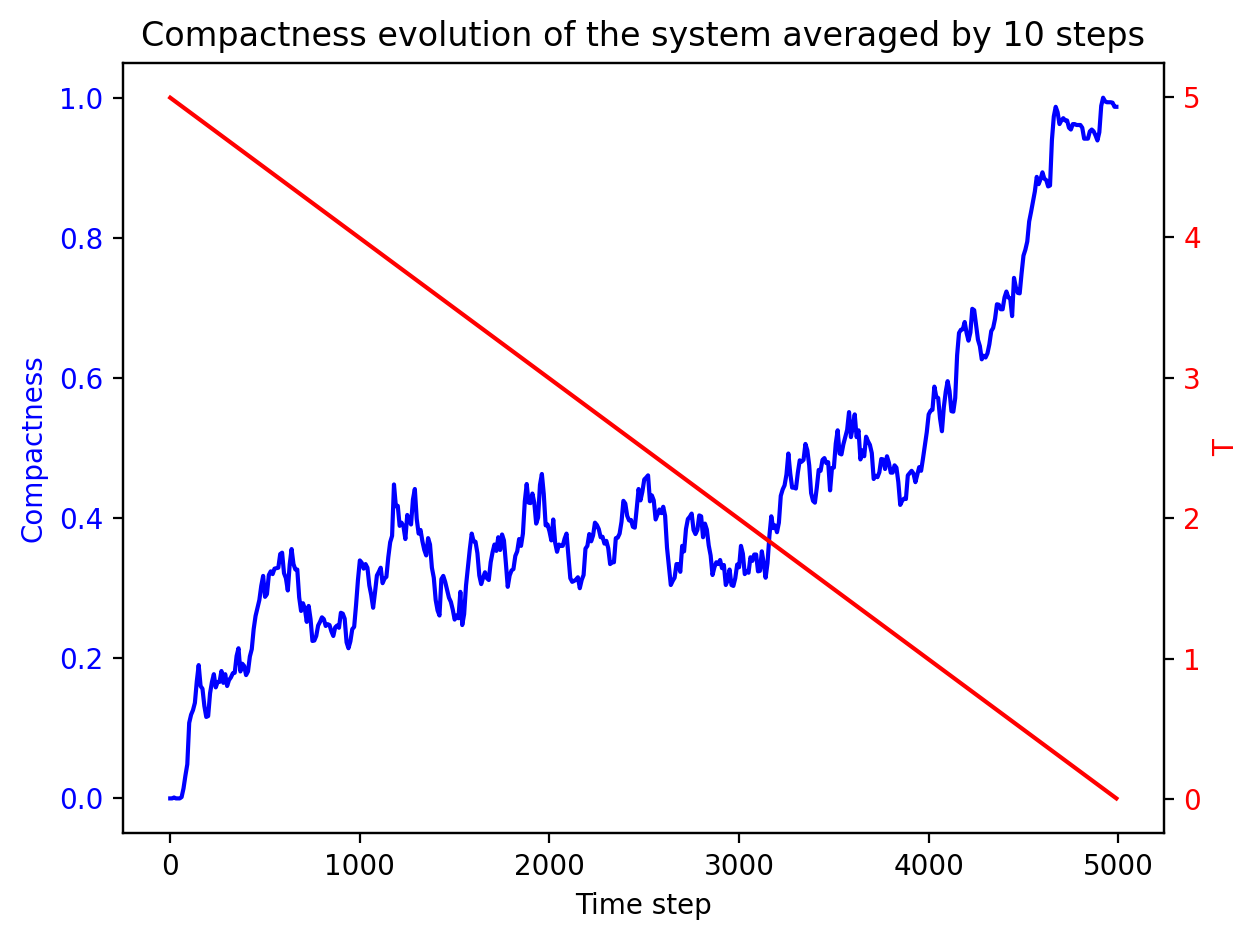
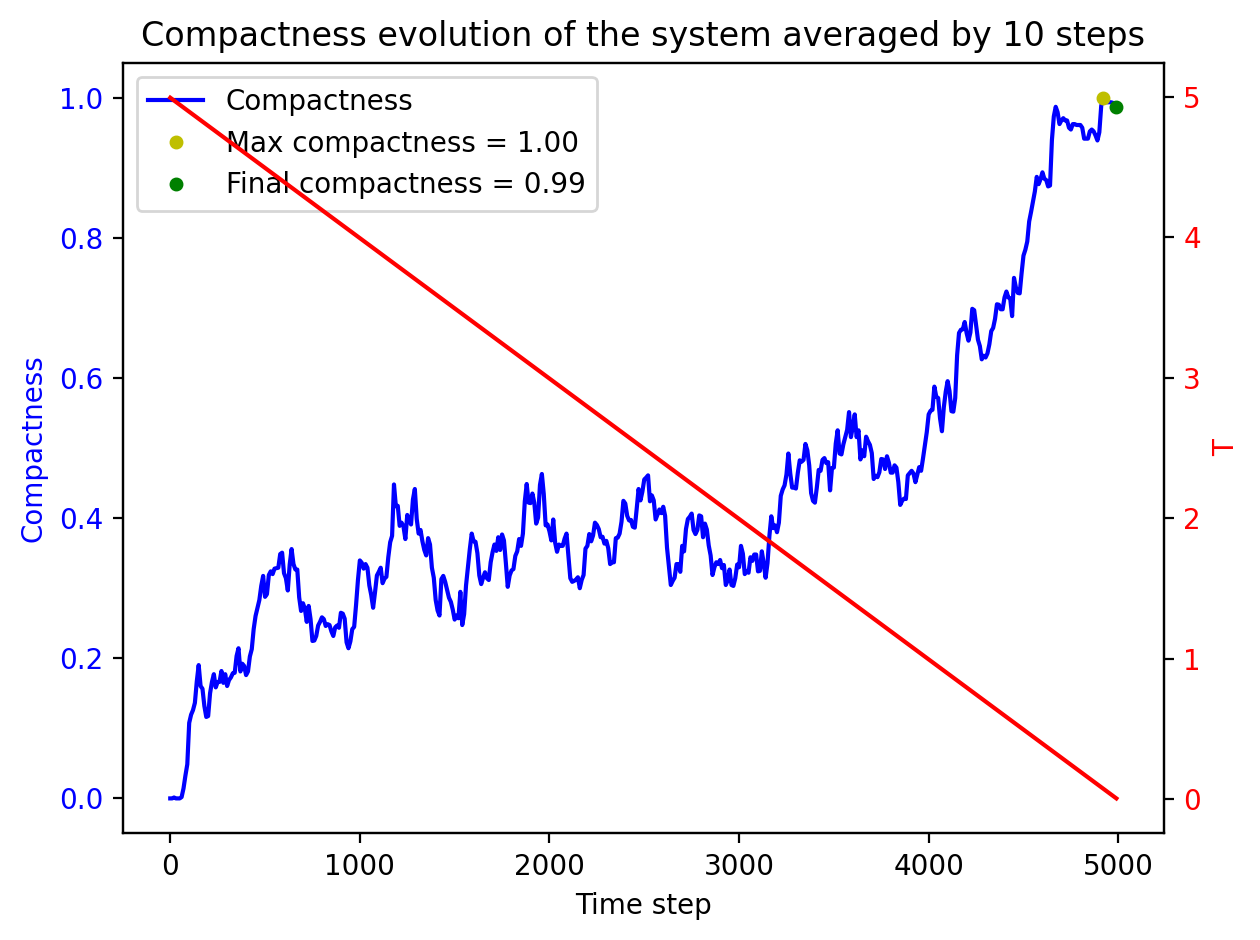
Updated plots

Changed region(s): [[0.0929, 0.0617, 0.4643, 0.2468], [0.8667, 0.0926, 0.8976, 0.1234]]

diff --git a/src/plots.py b/src/plots.py
@@ -75,7 +75,7 @@ def view_min_energy(protein, save=True, filename="min_energy.png"):
 
 def view_max_compactness(protein, save=True, filename="max_compactness.png"):
     '''
-    Function to plot the protein structure founded whit the max compactness.
+    Function to plot the protein structure founded with the max compactness.
     As first argument the protein class instance of the desired protein is needed.
     The plot can be saved with save = True as pdf
 
@@ -106,35 +106,46 @@ def view_max_compactness(protein, save=True, filename="max_compactness.png"):
 
 
 def plot_energy(protein, avg: int = 10, save=True, filename="energy_evolution.png", annealing=True) -> None:
-    '''
-    Plot the energy evolution of the system.
-    If annealing is False, temperature curve is not shown.
-    '''
     en_evo = np.array(protein.energy_evolution[1:].copy())
     x = np.arange(0, len(en_evo), avg)
 
     fig, ax = plt.subplots()
     try:
-        en_evo = en_evo.reshape(-1, avg).mean(axis=1)
+        en_evo_avg = en_evo.reshape(-1, avg).mean(axis=1)
     except:
         print(f'Mean procedure skipped for energy: {avg} steps')
+        en_evo_avg = en_evo
+        x = np.arange(len(en_evo_avg))
 
     ax.set_title(f'Energy evolution of the system averaged by {avg} steps')
     ax.set_xlabel('Time step')
     ax.set_ylabel('Energy', color='b')
     ax.tick_params(axis='y', labelcolor='b')
-    ax.plot(x, en_evo, color='b')
+    ax.plot(x, en_evo_avg, color='b', label='Energy')
+
+    # Marker: minimum energy → magenta
+    min_index = np.argmin(en_evo_avg)
+    min_energy = en_evo_avg[min_index]
+    ax.plot(x[min_index], min_energy, 'yo', markersize=4,
+            label=f'Min energy = {min_energy:.2f}')
+
+    # Marker: final energy → green
+    final_energy = en_evo_avg[-1]
+    ax.plot(x[-1], final_energy, 'go', markersize=4,
+            label=f'Final energy = {final_energy:.2f}')
+
+    ax.legend()
 
     if annealing:
         T = np.array(protein.temperature_evolution[1:])
         try:
-            T = T.reshape(-1, avg).mean(axis=1)
+            T_avg = T.reshape(-1, avg).mean(axis=1)
         except:
-            pass
+            T_avg = T
         ax_tw = ax.twinx()
         ax_tw.set_ylabel('T', color='r')
         ax_tw.tick_params(axis='y', labelcolor='r')
-        ax_tw.plot(x, T, color='r')
+        ax_tw.plot(x, T_avg, color='r', label='Temperature')
 
     fig.tight_layout()
     plt.show(block=False)
@@ -143,36 +154,45 @@ def plot_energy(protein, avg: int = 10, save=True, filename="energy_evolution.pn
 
 
 def plot_compactness(protein, avg: int = 10, save=True, filename="compactness_evolution.png", annealing=True) -> None:
-    '''
-    Plot the compactness evolution of the system.
-    If annealing is False, temperature curve is not shown.
-    '''
     comp = np.array(protein.compactness_evolution[1:].copy())
     comp = comp / max(comp)
     x = np.arange(0, len(comp), avg)
 
     fig, ax = plt.subplots()
     try:
-        comp = comp.reshape(-1, avg).mean(axis=1)
+        comp_avg = comp.reshape(-1, avg).mean(axis=1)
     except:
         print(f'Mean procedure skipped for compactness: {avg} steps')
+        comp_avg = comp
+        x = np.arange(len(comp_avg))
 
     ax.set_title(f'Compactness evolution of the system averaged by {avg} steps')
     ax.set_xlabel('Time step')
     ax.set_ylabel('Compactness', color='b')
     ax.tick_params(axis='y', labelcolor='b')
-    ax.plot(x, comp, color='b')
+    ax.plot(x, comp_avg, color='b', label='Compactness')
+
+    # Marker: maximum compactness → magenta
+    max_index = np.argmax(comp_avg)
+    max_comp = comp_avg[max_index]
+    ax.plot(x[max_index], max_comp, 'yo', markersize=4, label=f'Max compactness = {max_comp:.2f}')
+
+    # Marker: final compactness → green
+    final_comp = comp_avg[-1]
+    ax.plot(x[-1], final_comp, 'go', markersize=4, label=f'Final compactness = {final_comp:.2f}')
+
+    ax.legend()
 
     if annealing:
         T = np.array(protein.temperature_evolution[1:])
         try:
-            T = T.reshape(-1, avg).mean(axis=1)
+            T_avg = T.reshape(-1, avg).mean(axis=1)
         except:
-            pass
+            T_avg = T
         ax_tw = ax.twinx()
         ax_tw.set_ylabel('T', color='r')
         ax_tw.tick_params(axis='y', labelcolor='r')
-        ax_tw.plot(x, T, color='r')
+        ax_tw.plot(x, T_avg, color='r', label='Temperature')
 
     fig.tight_layout()
     plt.show(block=False)
